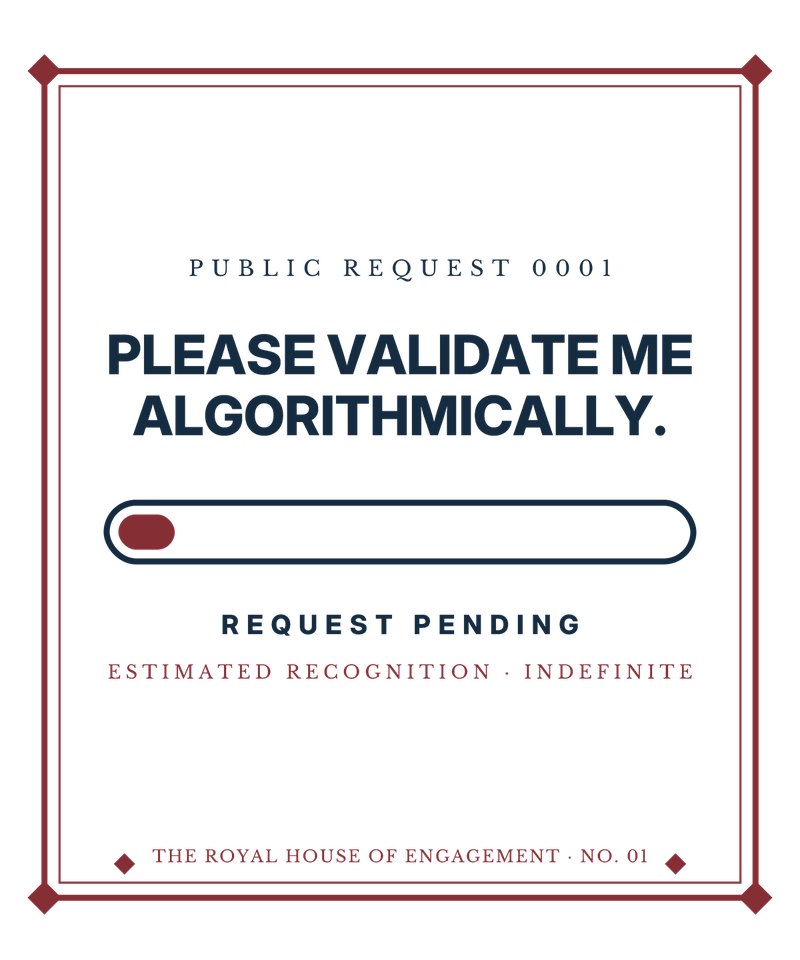
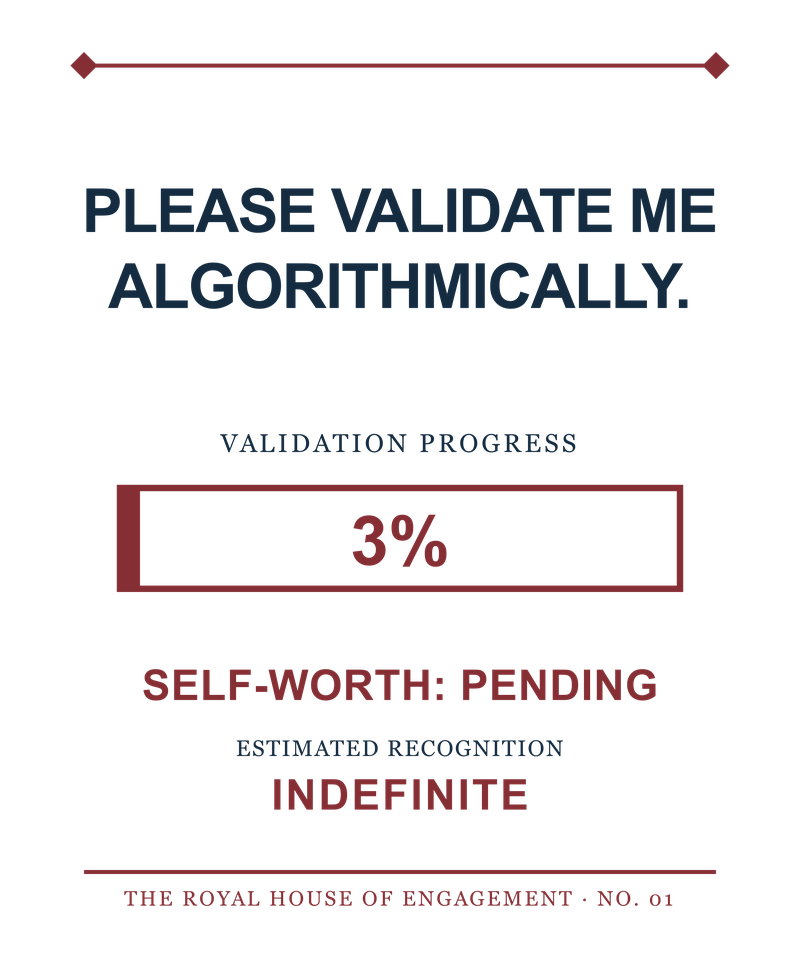
Apply approved launch-six redesigns to storefront and Printify records

Changed region(s): [[0.0312, 0.0625, 0.9688, 0.9688], [0.125, 0.5, 0.875, 0.8438]]

diff --git a/functions/src/catalog.ts b/functions/src/catalog.ts
@@ -71,7 +71,7 @@ export const catalog: Catalog = {
     },
   },
   "content-creator": {
-    name: "Content creator. Uniqueness questionable. Monetization inconsistent. Visibility unreported.",
+    name: "Content creator. Originality questionable. Revenue inconsistent. Reach unreported.",
     unitAmount: 3600,
     printifyProductId: "6af3d082c783a6d305012fce",
     variants: {

diff --git a/tools/printify/update_launch_six_art.py b/tools/printify/update_launch_six_art.py
@@ -1,0 +1,144 @@
+#!/usr/bin/env python3
+"""Replace art on the six existing Printify drafts; never publish or order.
+
+Run without arguments to inspect preconditions. Use --apply after approval.
+The token is read from functions/.secret.local and never printed.
+"""
+from __future__ import annotations
+
+import base64
+import hashlib
+import json
+import sys
+from pathlib import Path
+
+import requests
+from PIL import Image
+
+ROOT = Path(__file__).resolve().parents[2]
+SHOP = 29342324
+RECORD = ROOT / "tools/printify/launch-six-products.json"
+ART = ROOT / "production/print-files/launch-six-redesign-candidate-v1"
+LOG = ROOT / "production/qa/printify-redesign-update-2026-11-23.json"
+PRODUCTS = [
+    ("validate", "01-approval-pending"),
+    ("thought-leader", "02-honorary-appointment"),
+    ("doomscrolling", "03-inquiry-feed"),
+    ("content-creator", "04-creator-audit"),
+    ("authentic-self", "05-authentic-self-tag"),
+    ("sent-regretted", "06-one-minute-record"),
+]
+TITLE_04 = "Content creator. Originality questionable. Revenue inconsistent. Reach unreported."
+
+
+def token():
+    for line in (ROOT / "functions/.secret.local").read_text().splitlines():
+        if line.startswith("PRINTIFY_API_TOKEN="):
+            return line.split("=", 1)[1].strip()
+    raise RuntimeError("PRINTIFY_API_TOKEN missing")
+
+
+def request(session, method, path, payload=None):
+    response = session.request(method, f"https://api.printify.com/v1{path}", json=payload, timeout=90)
+    if not response.ok:
+        raise RuntimeError(f"Printify {method} {path}: HTTP {response.status_code}, {response.text[:350]}")
+    return response.json()
+
+
+def front_image(product):
+    return [image for area in product["print_areas"] for placeholder in area["placeholders"]
+            if placeholder["position"] == "front" for image in placeholder["images"]]
+
+
+def check_product(key, product, entry, allowed_ids):
+    if product["id"] != entry["productId"] or product["blueprint_id"] != 706 or product["print_provider_id"] != 99:
+        raise RuntimeError(f"{key}: unexpected product identity or blank")
+    if product.get("is_locked") or product.get("is_deleted"):
+        raise RuntimeError(f"{key}: product locked or deleted")
+    enabled = {v["id"]: v for v in product["variants"] if v.get("is_enabled")}
+    if set(enabled) != set(entry["variants"].values()) or {v["price"] for v in enabled.values()} != {3600}:
+        raise RuntimeError(f"{key}: variants or price differ from expected six at $36")
+    images = front_image(product)
+    if len(images) != 1 or images[0]["id"] not in allowed_ids:
+        raise RuntimeError(f"{key}: unexpected front image")
+    image = images[0]
+    if (image["x"], image["y"], image["scale"], image["angle"]) != (0.5, 0.5, 0.9452, 0):
+        raise RuntimeError(f"{key}: placement changed")
+    other = [p for area in product["print_areas"] for p in area["placeholders"]
+             if p["position"] != "front" and p.get("images")]
+    if other:
+        raise RuntimeError(f"{key}: another print location has art")
+
+
+def write_log(data):
+    LOG.parent.mkdir(parents=True, exist_ok=True)
+    LOG.write_text(json.dumps(data, indent=2) + "\n")
+
+
+def main():
+    apply = "--apply" in sys.argv
+    record = json.loads(RECORD.read_text())
+    progress = json.loads(LOG.read_text()) if LOG.exists() else {}
+    session = requests.Session()
+    session.headers.update({"Authorization": f"Bearer {token()}", "User-Agent": "lvc-launch-art-update"})
+    for key, stem in PRODUCTS:
+        entry = record[key]
+        png = ART / (stem + ".png")
+        with Image.open(png) as image:
+            if image.size != (4500, 5400) or image.mode != "RGBA" or "icc_profile" not in image.info:
+                raise RuntimeError(f"{key}: local PNG failed basic print check")
+        digest = hashlib.sha256(png.read_bytes()).hexdigest()
+        prior = progress.get(key, {})
+        old_id = prior.get("oldUploadId", entry["uploadId"])
+        allowed = {old_id, entry["uploadId"]}
+        if prior.get("newUploadId"):
+            allowed.add(prior["newUploadId"])
+        product = request(session, "GET", f"/shops/{SHOP}/products/{entry['productId']}.json")
+        check_product(key, product, entry, allowed)
+        current_id = front_image(product)[0]["id"]
+        if prior.get("newUploadId") == current_id and prior.get("sourceSha256") == digest:
+            print(f"{key}: already updated and verified")
+            continue
+        print(f"{key}: ready, current art {current_id}, new file {png.name}")
+        if not apply:
+            continue
+        if current_id != old_id:
+            raise RuntimeError(f"{key}: current art no longer matches saved original")
+        if not prior.get("newUploadId"):
+            upload = request(session, "POST", "/uploads/images.json", {
+                "file_name": png.name,
+                "contents": base64.b64encode(png.read_bytes()).decode("ascii"),
+            })
+            if (upload.get("width"), upload.get("height")) != (4500, 5400) or not upload.get("id"):
+                raise RuntimeError(f"{key}: upload dimensions or id wrong: {upload}")
+            prior = {"productId": entry["productId"], "oldUploadId": old_id,
+                     "newUploadId": upload["id"], "sourceSha256": digest, "uploaded": True}
+            progress[key] = prior
+            write_log(progress)
+        body = {
+            "print_areas": [{
+                "variant_ids": product["print_areas"][0]["variant_ids"],
+                "placeholders": [{"position": "front", "images": [{
+                    "id": prior["newUploadId"], "x": 0.5, "y": 0.5, "scale": 0.9452, "angle": 0,
+                }]}],
+            }],
+        }
+        if key == "content-creator":
+            body["title"] = TITLE_04
+        request(session, "PUT", f"/shops/{SHOP}/products/{entry['productId']}.json", body)
+        updated = request(session, "GET", f"/shops/{SHOP}/products/{entry['productId']}.json")
+        check_product(key, updated, entry, {prior["newUploadId"]})
+        if key == "content-creator" and updated["title"] != TITLE_04:
+            raise RuntimeError("04 title did not update")
+        prior["verified"] = True
+        progress[key] = prior
+        write_log(progress)
+        entry["uploadId"] = prior["newUploadId"]
+        RECORD.write_text(json.dumps(record, indent=2) + "\n")
+        print(f"{key}: updated and verified, new art {prior['newUploadId']}")
+    if apply:
+        print("All six draft updates completed; no publish or order action was called.")
+
+
+if __name__ == "__main__":
+    main()

diff --git a/docs/product/holiday-launch-plan.md b/docs/product/holiday-launch-plan.md
@@ -1,6 +1,6 @@
 # Holiday 2026 launch plan: the six
 
-Status: current as of **November 11, 2026**. This is the living plan; update it, and its change log at the bottom, whenever anything changes. The detailed work list is in [launch-readiness.md](launch-readiness.md) and the price recommendation is in [pricing-and-cost-analysis.md](pricing-and-cost-analysis.md).
+Status: art and Printify drafts updated **November 23, 2026**. This is the living plan; update it, and its change log at the bottom, whenever anything changes. The detailed work list is in [launch-readiness.md](launch-readiness.md) and the price recommendation is in [pricing-and-cost-analysis.md](pricing-and-cost-analysis.md).
 
 Scope rule: launch small, prove the pipeline end to end, add the next issues in January.
 
@@ -8,12 +8,12 @@ Scope rule: launch small, prove the pipeline end to end, add the next issues in 
 
 | No. | Saying | Concept | Garment | Printify draft | Art |
 |---:|---|---|---|---|---|
-| 01 | Please validate me algorithmically. | Progress bar | Ivory | Created | Print master done |
-| 02 | Thought leader. No thoughts required. | Door plaque | True Navy | Created | Print master done |
-| 03 | I'm not doomscrolling. I'm doing market research. | Field dispatch | Brick | Created | Print master done |
-| 04 | Content creator. Uniqueness questionable. Monetization inconsistent. Visibility unreported. | Editor's marks | Ivory | Created | Print master done |
-| 05 | My authentic self is currently being monetized. | Price tag | Brick | Created | Print master done |
-| 06 | Sent 2:14 AM. Regretted 2:15 AM. | Giant times | True Navy | Created | Print master done |
+| 01 | Please validate me algorithmically. | 3% validation bar | Ivory | Updated draft | Redesign candidate |
+| 02 | Thought leader. No thoughts required. | Honorary appointment | True Navy | Updated draft | Redesign candidate |
+| 03 | I'm not doomscrolling. I'm doing market research. | Inquiry feed | Brick | Updated draft | Redesign candidate |
+| 04 | Content creator. Originality questionable. Revenue inconsistent. Reach unreported. | Creator audit | Ivory | Updated draft | Redesign candidate |
+| 05 | My authentic self is currently being monetized. | Price tag | Brick | Updated draft | Redesign candidate |
+| 06 | Sent 2:14 AM. Regretted 2:15 AM. | One-minute record | True Navy | Updated draft | Redesign candidate |
 
 - **Garment colors are locked to the real Comfort Colors names** (Ivory, True Navy, Brick). The site, cart, backend catalog and Printify products must all say the same color, and `scripts/check-apparel-manifest.py` fails the build if they don't. Brick is the closest available shade to the brand's oxblood and is **provisional until a physical sample is seen**.
 - **Held back:** No. 07 Much Published, Little Said (the crest, saved for a later edition), No. 08 Order of the Blue Check, and Nos. 09 and 10. They stay in the manifest but are **not listed or built on the site**: the site shows only the six (`holidayLaunch: true`); to release another issue, set that flag and finish its Printify product, catalog entry and color. "I optimized this shirt for engagement" moved to No. 19.
@@ -62,6 +62,7 @@ Back prints, sleeve seals, garment QR codes, hoodies, Nos. 07 to 10, the Wave 2 
 
 | Date | Change |
 |---|---|
+| Nov 23, 2026 (redesign) | Mark approved the six revised designs and 01/04/06 copy. Outlined 4500 × 5400 local print candidates passed mechanical QA; all six existing Printify drafts were updated with the new art and current mockups were downloaded. Physical print quality and Brick color still await samples. |
 | Nov 9, 2026 | First plan: five shirts (01, 02, 03, 05, 08) |
 | Nov 10, 2026 | Approved six: 01 to 06 as above. 07 (crest) and 08 (Blue Check) dropped; "Sent" and the rewritten creator line added; numbering reset to 01 to 06; new artwork replaces the prototypes |
 | Nov 11, 2026 (names) | Mark: the six Great House names never wrap. The homepage row stacks each badge above its name; a post-build step (`website/scripts/nowrap-houses.mjs`) joins every "House of …" with non-breaking spaces in all pages; the Houses page names are `nowrap` with a fluid size; `tools/site-qa` now fails on any wrapped Great House name and checks page overflow at 600 px too |

diff --git a/docs/product/ECOSYSTEM_APPAREL_CATALOG.md b/docs/product/ECOSYSTEM_APPAREL_CATALOG.md
@@ -38,16 +38,16 @@ The House assignment identifies the mechanism being satirized; it does not requi
 
 ## Founding Ten
 
-These records remain authoritative over every expansion classification. Existing SVGs are editable prototypes; generated artwork plates are concept references until reconstructed or approved at provider resolution.
+These records remain authoritative over every expansion classification. Nos. F01–F06 use the November 23 outlined print candidates; physical samples remain open. The held-back artwork plates are concept references until reconstructed or approved at provider resolution.
 
 | ID | Product | Collection | Form | House | Production record |
 |---|---|---|---|---|---|
-| F01 | Please validate me algorithmically. | Public Notices | PN | None required | Editable artwork: production/print-files/launch-six-v1/01-progress-bar.svg |
-| F02 | Thought leader. No thoughts required. | Court & Orders | CO | House of Influence | Editable artwork: production/print-files/launch-six-v1/02-door-plaque.svg |
-| F03 | I’m not doomscrolling. I’m doing market research. | Court & Orders | CO | House of Scroll | Editable artwork: production/print-files/launch-six-v1/03-field-dispatch.svg |
-| F04 | Content creator. Uniqueness questionable. Monetization inconsistent. Visibility unreported. | Public Notices | PN | None required | Editable artwork: production/print-files/launch-six-v1/04-editors-marks.svg |
-| F05 | My authentic self is currently being monetized. | Public Notices | PN | None required | Editable artwork: production/print-files/launch-six-v1/05-price-tag.svg |
-| F06 | Sent 2:14 AM. Regretted 2:15 AM. | Public Notices | PN | None required | Editable artwork: production/print-files/launch-six-v1/06-giant-times.svg |
+| F01 | Please validate me algorithmically. | Public Notices | PN | None required | Outlined candidate: production/print-files/launch-six-redesign-candidate-v1/01-approval-pending.svg |
+| F02 | Thought leader. No thoughts required. | Court & Orders | CO | House of Influence | Outlined candidate: production/print-files/launch-six-redesign-candidate-v1/02-honorary-appointment.svg |
+| F03 | I’m not doomscrolling. I’m doing market research. | Court & Orders | CO | House of Scroll | Outlined candidate: production/print-files/launch-six-redesign-candidate-v1/03-inquiry-feed.svg |
+| F04 | Content creator. Originality questionable. Revenue inconsistent. Reach unreported. | Public Notices | PN | None required | Outlined candidate: production/print-files/launch-six-redesign-candidate-v1/04-creator-audit.svg |
+| F05 | My authentic self is currently being monetized. | Public Notices | PN | None required | Outlined candidate: production/print-files/launch-six-redesign-candidate-v1/05-authentic-self-tag.svg |
+| F06 | Sent 2:14 AM. Regretted 2:15 AM. | Public Notices | PN | None required | Outlined candidate: production/print-files/launch-six-redesign-candidate-v1/06-one-minute-record.svg |
 | F07 | Much Published, Little Said | Court & Orders | CO | The Royal House of Engagement | Artwork plate (not print-ready): design/mockups/royal-house/A07-much-published-little-said.png |
 | F08 | Order of the Blue Check | Court & Orders | CO | House of Influence | Artwork plate (not print-ready): design/mockups/royal-house/A08-order-blue-check.png |
 | F09 | The End of the World Has Been Postponed | Royal Commemorations | RC | House of Buffer | Artwork plate (not print-ready): design/mockups/royal-house/A09-y2k-postponed.png |

diff --git a/docs/product/launch-readiness.md b/docs/product/launch-readiness.md
@@ -16,19 +16,19 @@ State key: **Done** (built and checked), **Ready** (I can do it now without a de
 
 | Item | State | Notes |
 |---|---|---|
-| Six approved designs, print masters (outlined SVG plus 4500 x 5400 PNG) | Done | `production/print-files/launch-six-v1/`. **Local-only (gitignored)**: back it up; a copy of everything was saved to `~/Circus/Backups/` on Nov 11 |
+| Six approved redesigns, outlined SVG plus 4500 x 5400 PNG | Done locally | `production/print-files/launch-six-redesign-candidate-v1/`; mechanical QA and a proof sheet passed November 23. **Local-only (gitignored)**; physical sample and provider acceptance remain open. The November 11 backup contains the earlier art, not this redesign. |
 | Editable sources and fonts | Done | `design/launch-six/` |
 | Garment colors locked to real blank names | Done | Manifest `blankColor` plus checker; Brick provisional |
 | Confirm Brick and True Navy on a real shirt | Blocked | Needs samples |
 | Confirm print quality, thin rules and gold on dark cotton | Blocked | Needs samples |
-| Frame weight decision (the frame is large and its thinnest rule is about 0.029 in) | Blocked | Decide after seeing the sample; a heavier frame is a one-file change per design |
+| Frame and small-type quality on the redesign | Blocked | The new rails are lighter in area and the smallest drawn rule exceeds the local 0.03 in target at the recorded provider scale. Confirm edge quality and small serif text on a physical sample. |
 | Trademark knockout searches for the six sayings and the brand | Needs outside | Cannot be done from here; search the USPTO and common marketplaces; the site must not claim clearance |
 
 ## 2. Printify
 
 | Item | State | Notes |
 |---|---|---|
-| Six draft products (Ivory, True Navy, Brick; S to 3XL; placed art) | Done | `tools/printify/create_launch_six.py` |
+| Six draft products (Ivory, True Navy, Brick; S to 3XL; placed art) | Done | Existing drafts updated with approved redesign art November 23; read-back verified IDs, price, variants and placement. Update log: `production/qa/printify-redesign-update-2026-11-23.json`. |
 | Old test product removed | Done | Deleted November 11 |
 | Prices on the Printify products | Done | Set to $36 on November 11 |
 | Confirm real production time and the holiday cutoff | Needs outside | Ask Printify support or read the provider page; the 10-day API field looks like a default |
@@ -52,7 +52,7 @@ State key: **Done** (built and checked), **Ready** (I can do it now without a de
 | Deploy to dev and run test orders for all six | Ready | After the PR merges |
 | Deploy to staging and repeat | Ready | After dev passes |
 | Failure-path tests (declined card, expired session, Printify error) | Ready | Add before prod |
-| Product images: Printify mockups as interim, sample photos later | Ready | Mockups already generated by Printify |
+| Product images: Printify mockups as interim, sample photos later | Done locally | November 23 generated mockups for the approved redesigns replaced the six storefront mockup files; sample photos remain open. |
 | Size chart and fit copy | Ready | Take measurements from the Printify blueprint and the sample |
 
 ## 4. Legal and policy

diff --git a/docs/product/apparel-manifest.md b/docs/product/apparel-manifest.md
@@ -30,12 +30,12 @@ Six of the ten products launch first: **Nos. 01 to 06**, marked `holidayLaunch: 
 
 | # | Product | Launch collection | Realm intensity | Creative status | Commerce status |
 |---:|---|---|---|---|---|
-| 1 | Please validate me algorithmically. | Public Notices | None | Print master | Test sellable (Ivory) |
-| 2 | Thought leader. No thoughts required. | Court & Orders | Moderate | Print master | Test sellable (True Navy) |
-| 3 | I’m not doomscrolling. I’m doing market research. | Court & Orders | Moderate | Print master | Test sellable (Brick, provisional) |
-| 4 | Content creator. Uniqueness questionable. Monetization inconsistent. Visibility unreported. | Public Notices | None | Print master | Test sellable (Ivory) |
-| 5 | My authentic self is currently being monetized. | Public Notices | None | Print master | Test sellable (Brick, provisional) |
-| 6 | Sent 2:14 AM. Regretted 2:15 AM. | Public Notices | Light | Print master | Test sellable (True Navy) |
+| 1 | Please validate me algorithmically. | Public Notices | None | Print candidate | Test sellable (Ivory) |
+| 2 | Thought leader. No thoughts required. | Court & Orders | Moderate | Print candidate | Test sellable (True Navy) |
+| 3 | I’m not doomscrolling. I’m doing market research. | Court & Orders | Moderate | Print candidate | Test sellable (Brick, provisional) |
+| 4 | Content creator. Originality questionable. Revenue inconsistent. Reach unreported. | Public Notices | None | Print candidate | Test sellable (Ivory) |
+| 5 | My authentic self is currently being monetized. | Public Notices | None | Print candidate | Test sellable (Brick, provisional) |
+| 6 | Sent 2:14 AM. Regretted 2:15 AM. | Public Notices | Light | Print candidate | Test sellable (True Navy) |
 | 7 | Much Published, Little Said | Court & Orders | Full | Ornate art plate | Planned |
 | 8 | Order of the Blue Check | Court & Orders | Full | Ornate art plate | Planned |
 | 9 | The End of the World Has Been Postponed | Royal Commemorations | Full | Ornate art plate | Planned |

diff --git a/docs/product/blank-and-print-spec.md b/docs/product/blank-and-print-spec.md
@@ -16,7 +16,7 @@ Status: updated November 11, 2026. The **Verified facts** section below supersed
 | Care | Machine wash cold (max 30 °C), do not bleach, tumble dry low, iron on low heat, do not dry clean |
 | Handling time | The API reports 10 days for every provider, which looks like a default. Real production time is unverified |
 
-**Print-quality flag.** At the scale Printify fits our art, the thinnest rule in each frame is about 0.029 in, just under our own 0.03 in minimum. The samples will show whether that holds on textured garment-dyed cotton.
+**Print-quality flag.** The November 11 frame note below applies to the earlier art. The November 23 redesign has a 3 px minimum rule in its 1000-unit source, about 0.035 in when the 5400 px master is fitted to the recorded 4200 px / 14 in print area. Physical samples still need to confirm the small serif text and gold on textured garment-dyed cotton.
 
 **Interim mockups.** Printify renders mockups for every color we enabled. They are what the site can show until sample photography exists.
 

diff --git a/docs/product/launch-six-art-brief.md b/docs/product/launch-six-art-brief.md
@@ -1,6 +1,6 @@
 # Art brief: the holiday six
 
-Status: draft for Mark's review, November 10, 2026. Written to be handed to an outside AI image/design tool that has **not** seen this repository. Everything it needs is in this file; attach the reference files named under each shirt. Nothing here is trademark-cleared.
+Status: original art brief, November 10, 2026. **November 23 update:** Mark approved the six redesigns in `production/print-files/launch-six-redesign-candidate-v1/`. The approved visible copy and design changes in that package's `COPY-REVIEW.md` supersede the older per-shirt wording and composition below, especially for 01, 04, and 06. This brief remains the record of the original directions. Nothing here is trademark-cleared.
 
 ## 1. The job
 
